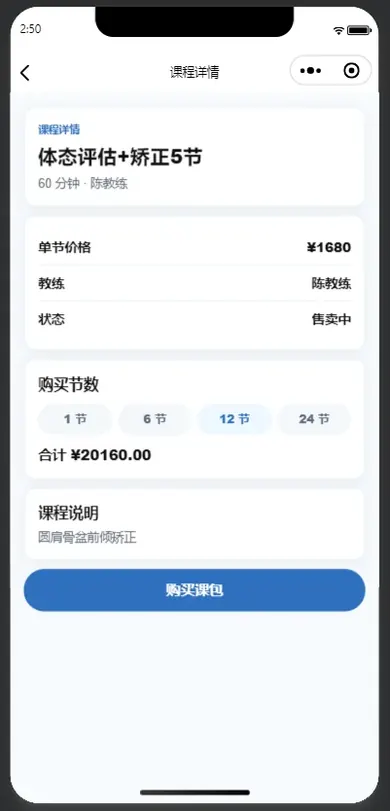
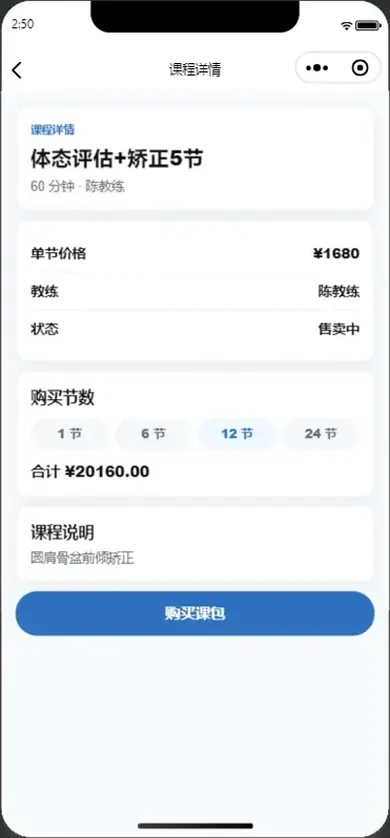
Crop black screenshot borders from CoachNow images.
Auto-trim device bezels and dark bars, then re-export optimized WebP assets.

diff --git a/layouts/_markup/render-image.html b/layouts/_markup/render-image.html
@@ -27,7 +27,7 @@
       src="{{ $src }}"
       alt="{{ .Text }}"
       width="390"
-      height="844"
+      height="auto"
       loading="lazy"
       decoding="async"
       class="project-shot__img">

diff --git a/assets/css/extended/custom.css b/assets/css/extended/custom.css
@@ -353,7 +353,6 @@ header .nav {
   display: block;
   width: 100%;
   height: auto;
-  aspect-ratio: 390 / 844;
   object-fit: contain;
   object-position: top center;
   border-radius: 12px;
